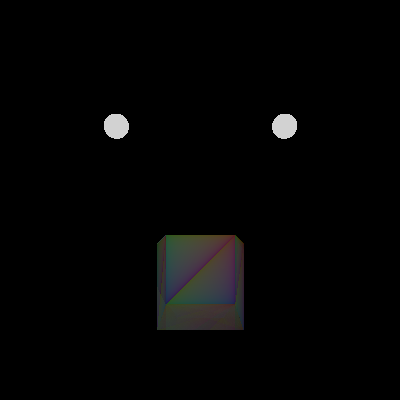
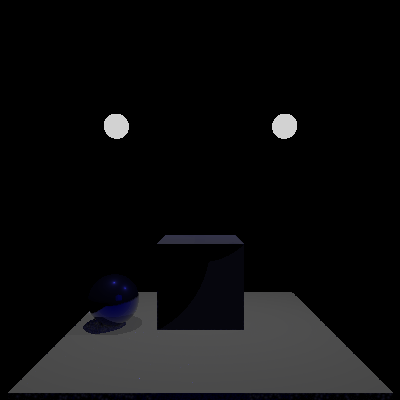
spelling out logic fixes the bug? dwdw i guess

Changed region(s): [[0.03, 0.57, 0.99, 1.0]]

diff --git a/src/cgg/scne/AnimalFarm.java b/src/cgg/scne/AnimalFarm.java
@@ -13,19 +13,17 @@ public class AnimalFarm extends Scene
 		super(vec3(0,-2.5,4.5),vec3(0,0,0));
 
 		// cornell box
-		/*
 		groot.register_geometry(_cornellBox(5,false));
 
 		// reference object
 		groot.register_geometry(
 				new Sphere(vec3(-1.75,-.5,-2.5),.5,new PhysicalMaterial(color(0,0,.7),color(1,.1,1)))
 			);
-		*/
 
 		// animal
 		GraphNode well = new GraphNode(vec3(0,-1,0),vec3(1),vec3(0,0,0));
 		well.register_geometry(
-				new TriangleMesh("./res/mesh/box.obj",new PhysicalMaterial(color(0,0,.7),color(1,.1,1)))
+				new TriangleMesh("./res/mesh/box.obj",new PhysicalMaterial(color(0,0,.7),color(0,1,1)))
 			);
 		well.update_bounds();
 		groot.register_geometry(well);
@@ -46,12 +44,14 @@ public class AnimalFarm extends Scene
 		GraphNode out = new GraphNode();
 
 		out.register_geometry(new Box(vec3(0,.5,-hsize),size,1,size,neutral));
+		/*
 		out.register_geometry(new Box(vec3(0,-hsize,-size-.5),size,size,1,neutral));
 		out.register_geometry(new Box(vec3(0,-size-.5,-hsize),size,1,size,neutral));
 		out.register_geometry(new Box(vec3(-hsize-.5,-hsize,-hsize),1,size,size,
 									  new PhysicalMaterial(color(.7,0,0),color(0,1,1))));
 		out.register_geometry(new Box(vec3(hsize+.5,-hsize,-hsize),1,size,size,
 									  new PhysicalMaterial(rwall,color(0,1,1))));
+		*/
 
 		out.update_bounds();
 		return out;

diff --git a/src/cgg/geom/TriangleMesh.java b/src/cgg/geom/TriangleMesh.java
@@ -33,25 +33,26 @@ public class TriangleMesh implements Geometry
 		}
 	}
 
-	public Queue<HitTuple> intersect(Ray ray)
+	public Queue<HitTuple> intersect(Ray charles)
 	{
 		Hit __Recent = null;
 		for (Triangle t : polys)
 		{
-			Queue<HitTuple> __Hits = t.intersect(ray);
+			Queue<HitTuple> __Hits = t.intersect(charles);
 			if (__Hits.size()!=0)
 			{
-				if (__Recent!=null) System.out.println(__Recent.position()+" -> "+__Hits.peek().front().position());
-				__Recent = secondHitRecent(__Hits.peek().front(),__Recent) ? __Hits.peek().front() : __Recent;
+				Hit p_Hit = __Hits.peek().front();
+				__Recent = (__Recent==null||(p_Hit!=null&&p_Hit.param()<__Recent.param())) ? p_Hit : __Recent;
 			}
 		}
 		if (__Recent==null) return new LinkedList<HitTuple>();
+		//System.out.println(__Recent);
 
 		// assemble hit
-		//__Recent.overwriteMaterial(material);
+		__Recent.overwriteMaterial(material);
 		return primitive_hit(new HitTuple(__Recent,__Recent));
 	}
-	// TODO improve to actually return all the geometry the ray passes through just like in csg complex
+	// TODO improve to actually return all the geometry the charles passes through just like in csg complex
 
 	public BoundingBox bounding_box() { return BoundingBox.everything; }
 	// FIXME performance
